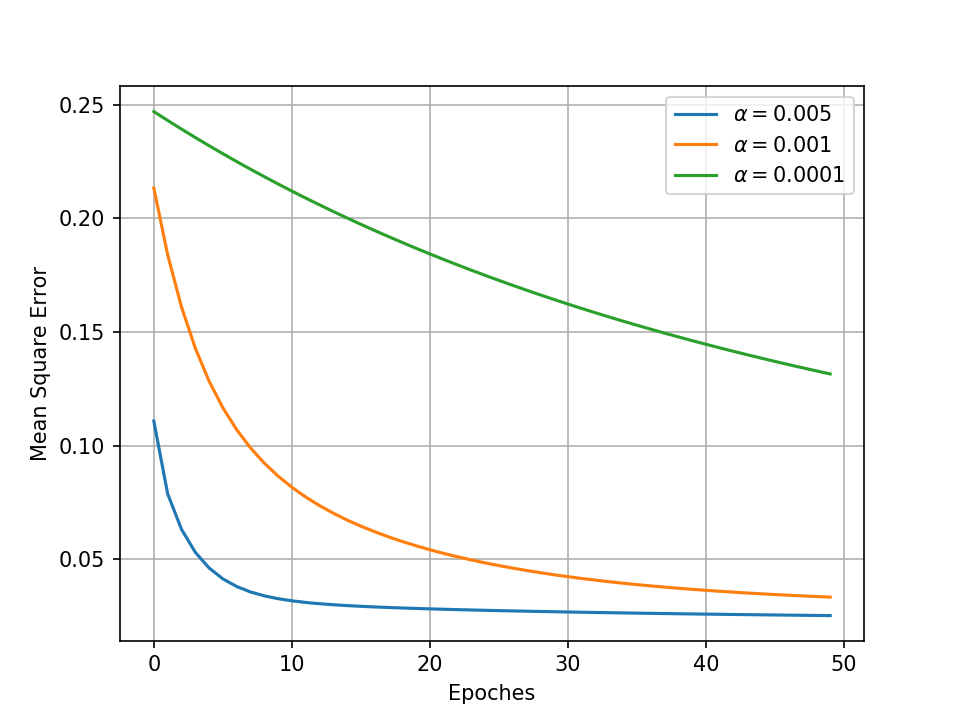
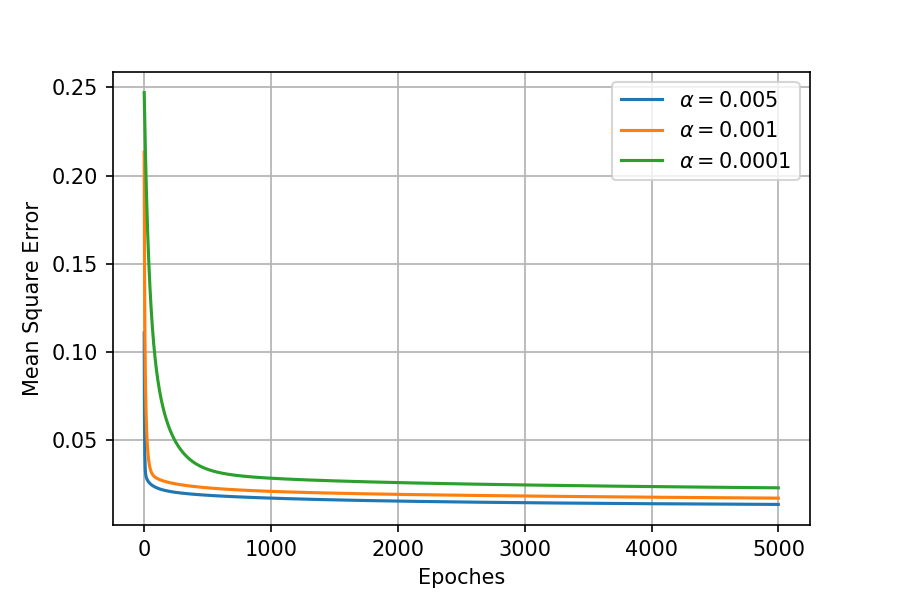
WIP

Changed region(s): [[0.0, 0.12, 0.9022, 0.93], [0.4667, 0.93, 0.56, 0.99], [0.84, 0.51, 0.8711, 0.54]]

diff --git a/a1/starter.py b/a1/starter.py
@@ -81,8 +81,8 @@ def buildGraph(beta1=None, beta2=None, epsilon=None, lossType=None, learning_rat
 
 
 if __name__ == '__main__':
-    linear_regression_epochs = 50
-    save_linear_regression = False
+    linear_regression_epochs = 5000
+    save_linear_regression = True
     plot_linear_regression = True
     run_logistic_regression = True
     run_sgd = True    
